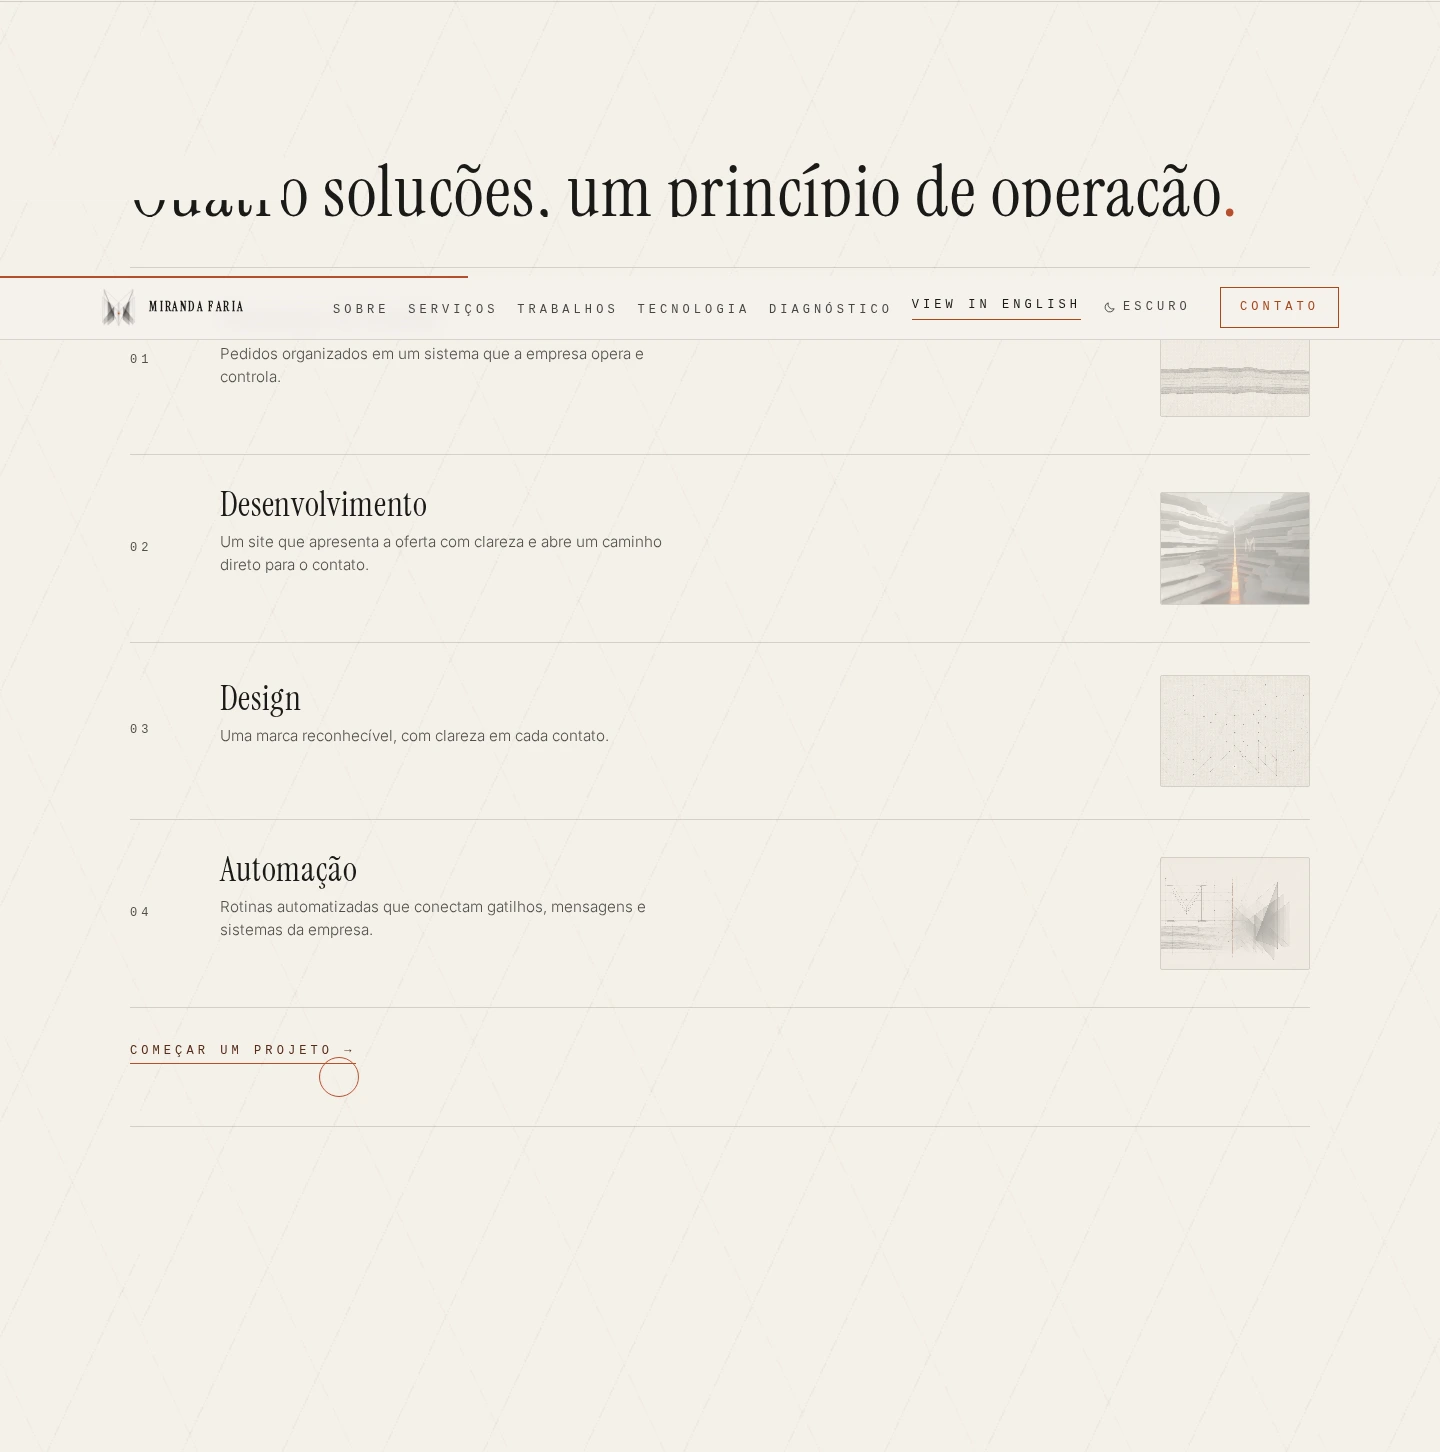
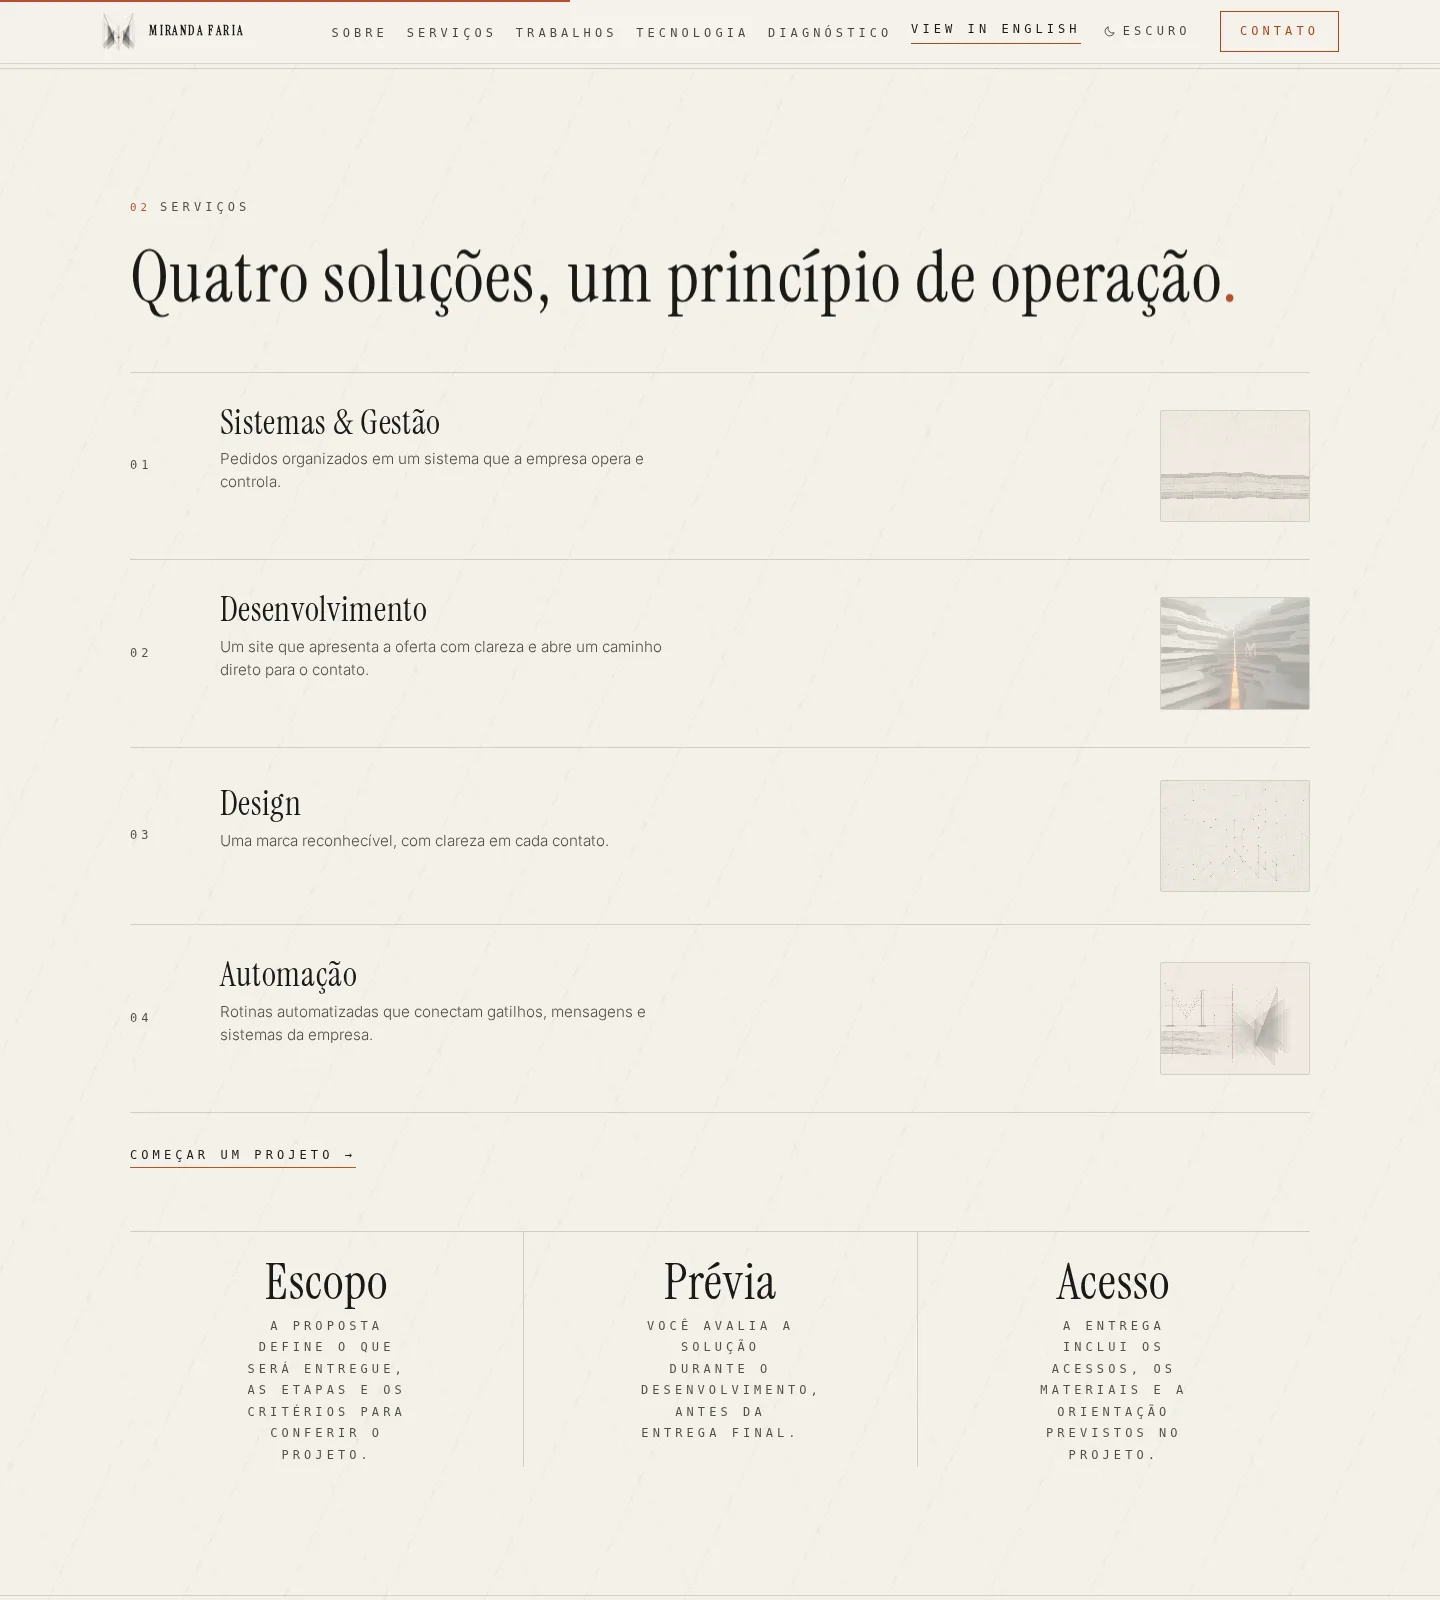
Rodada 3: current-services refeita com metodo de captura correto (viewport 1440x1800, fullPage:false, scroll normal com topo da secao abaixo da navbar, heading e 4 solucoes assentados; sem element.screenshot). WebP 1440x1600, navbar apenas no topo, nada cobrindo o heading. Teste MF atualizado.

diff --git a/src/content/remainingCasePresentation.js b/src/content/remainingCasePresentation.js
@@ -429,7 +429,7 @@ export const remainingPresentations = {
         "type": "image",
         "src": "/work/miranda-faria/current-services.webp",
         "width": 1440,
-        "height": 1452,
+        "height": 1600,
         "text": {
           "pt": {
             "alt": "Faixa de serviços da home de Este site com as quatro soluções.",
@@ -442,9 +442,9 @@ export const remainingPresentations = {
         },
         "capture": {
           "url": "http://localhost:4180/pt/",
-          "viewport": "1440x900@1x (seção completa, 1440x1452)",
-          "source": "Playwright, preview local do candidato (rodada 2: secao localizada pelo heading Quatro soluções, um princípio de operação., quatro solucoes completas)",
[1 lines of base64/hex data omitted]
+          "viewport": "1440x1800@1x, foto de viewport fullPage:false (rodada 3: scroll normal com topo da secao abaixo da navbar, heading e quatro solucoes assentados)",
+          "source": "Playwright, preview local do candidato (rodada 3: metodo de captura corrigido, sem element.screenshot)",
[1 lines of base64/hex data omitted]
         }
       },
       {
